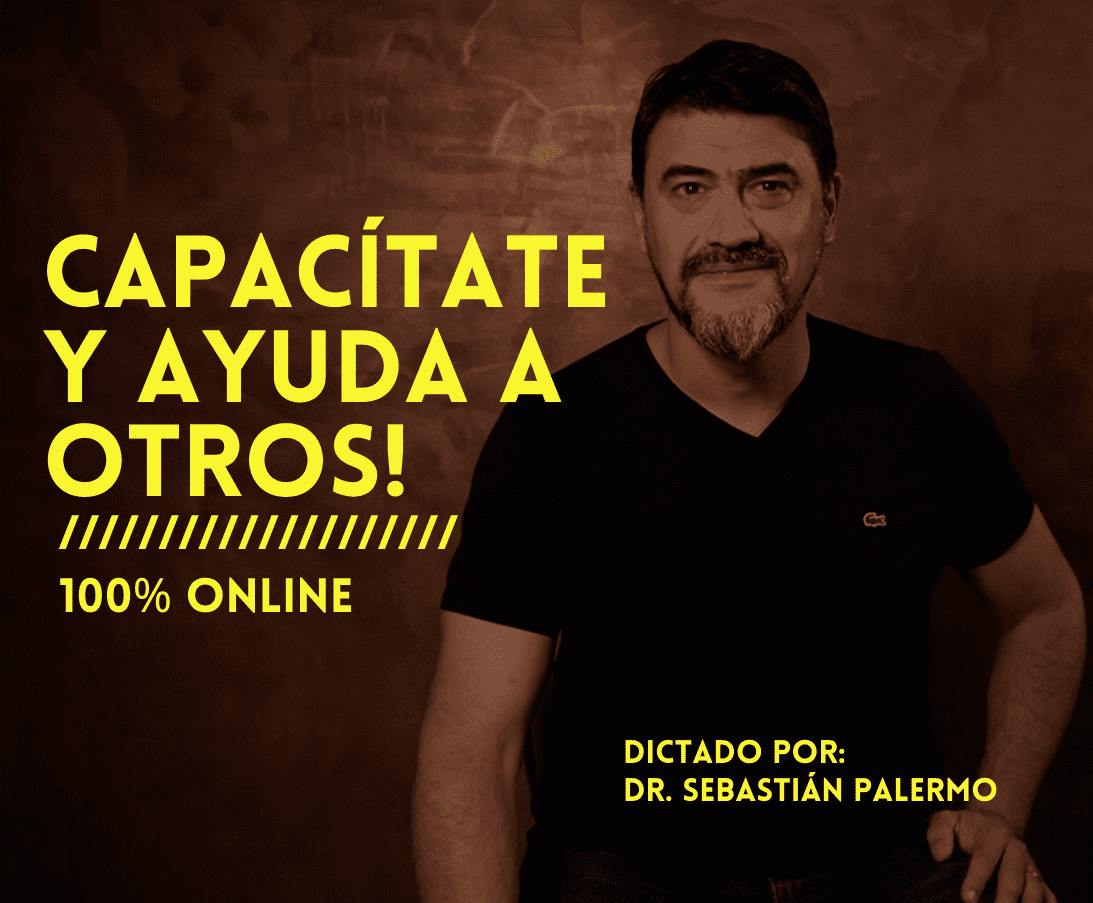
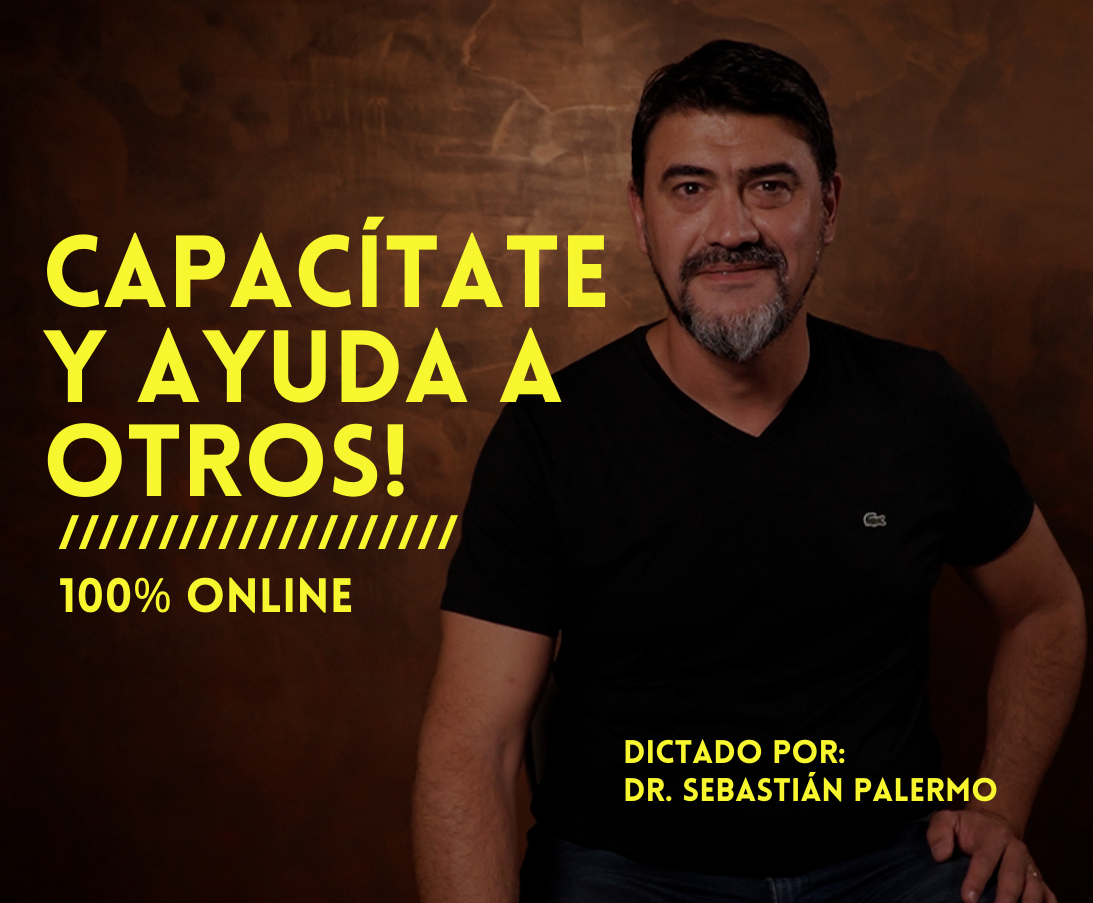
Cambio de imagen comprimida y retoques al css

diff --git a/css/main.css b/css/main.css
@@ -386,6 +386,10 @@ body::-webkit-scrollbar-thumb {
     -webkit-box-sizing: border-box;
             box-sizing: border-box;
     border-right: 1px solid rgba(230, 227, 217, 0.3); }
+    .header__letter:hover {
+      width: 110px;
+      transition: 1s;
+    }
     @media screen and (max-width: 768px) and (orientation: portrait) {
       .header__letter {
         width: auto;
@@ -416,6 +420,11 @@ body::-webkit-scrollbar-thumb {
               justify-content: center;
       width: 0.98958vw;
       height: 1.04167vw; }
+      .header__socials a:hover {
+        padding-bottom: 10px;
+        height: 1.5vw;
+        transition: 0.25s;
+    }
       @media screen and (max-width: 768px) and (orientation: portrait) {
         .header__socials a {
           width: 5.33333vw;
@@ -470,7 +479,7 @@ body::-webkit-scrollbar-thumb {
      }
      .header__phone:hover{
        width: 200px;
-       margin-left: -130px;
+       margin-left: -120px;
        border-radius: 15px;
        background-color:#48AFC5;
        transition: 1s ease-in-out;
@@ -491,9 +500,9 @@ body::-webkit-scrollbar-thumb {
      .header__phone:hover p{
       display: block;
       opacity: 1;
-      margin-bottom: 10px;
-      margin-left: 10px;
-      transition: 1.5s ease-in-out;
+      margin-bottom: 5px;
+      margin-left: 5px;
+      transition: 0.5s ease-in-out;
 
     }
     .header__phone a {

diff --git a/index.html b/index.html
@@ -615,9 +615,7 @@
                   <form class="content__contacts contacts__form js-contact-form" method="post">
                     <div class="content__brief">
                       <div class="content__brief-title">
-                        <label class="input-file">
-                          <input type="file" name="file" id="brief"><span>envianos tu pregunta</span>
-                        </label>
+                          <span>envianos tu pregunta</span>
                       </div>
                       <div class="content__brief-text small">comuniquese con nosotros para responder sus preguntas<label for="brief"></label></div>
                     </div>

diff --git a/js/main.js b/js/main.js
@@ -966,7 +966,7 @@ $(window).on('load',function (){
     function Aelem(){
         let x=getHeiht();
         window.scrollTo({
-        top: 10,
+        top: 100,
         left: 0,
         behavior: 'smooth'
       });
